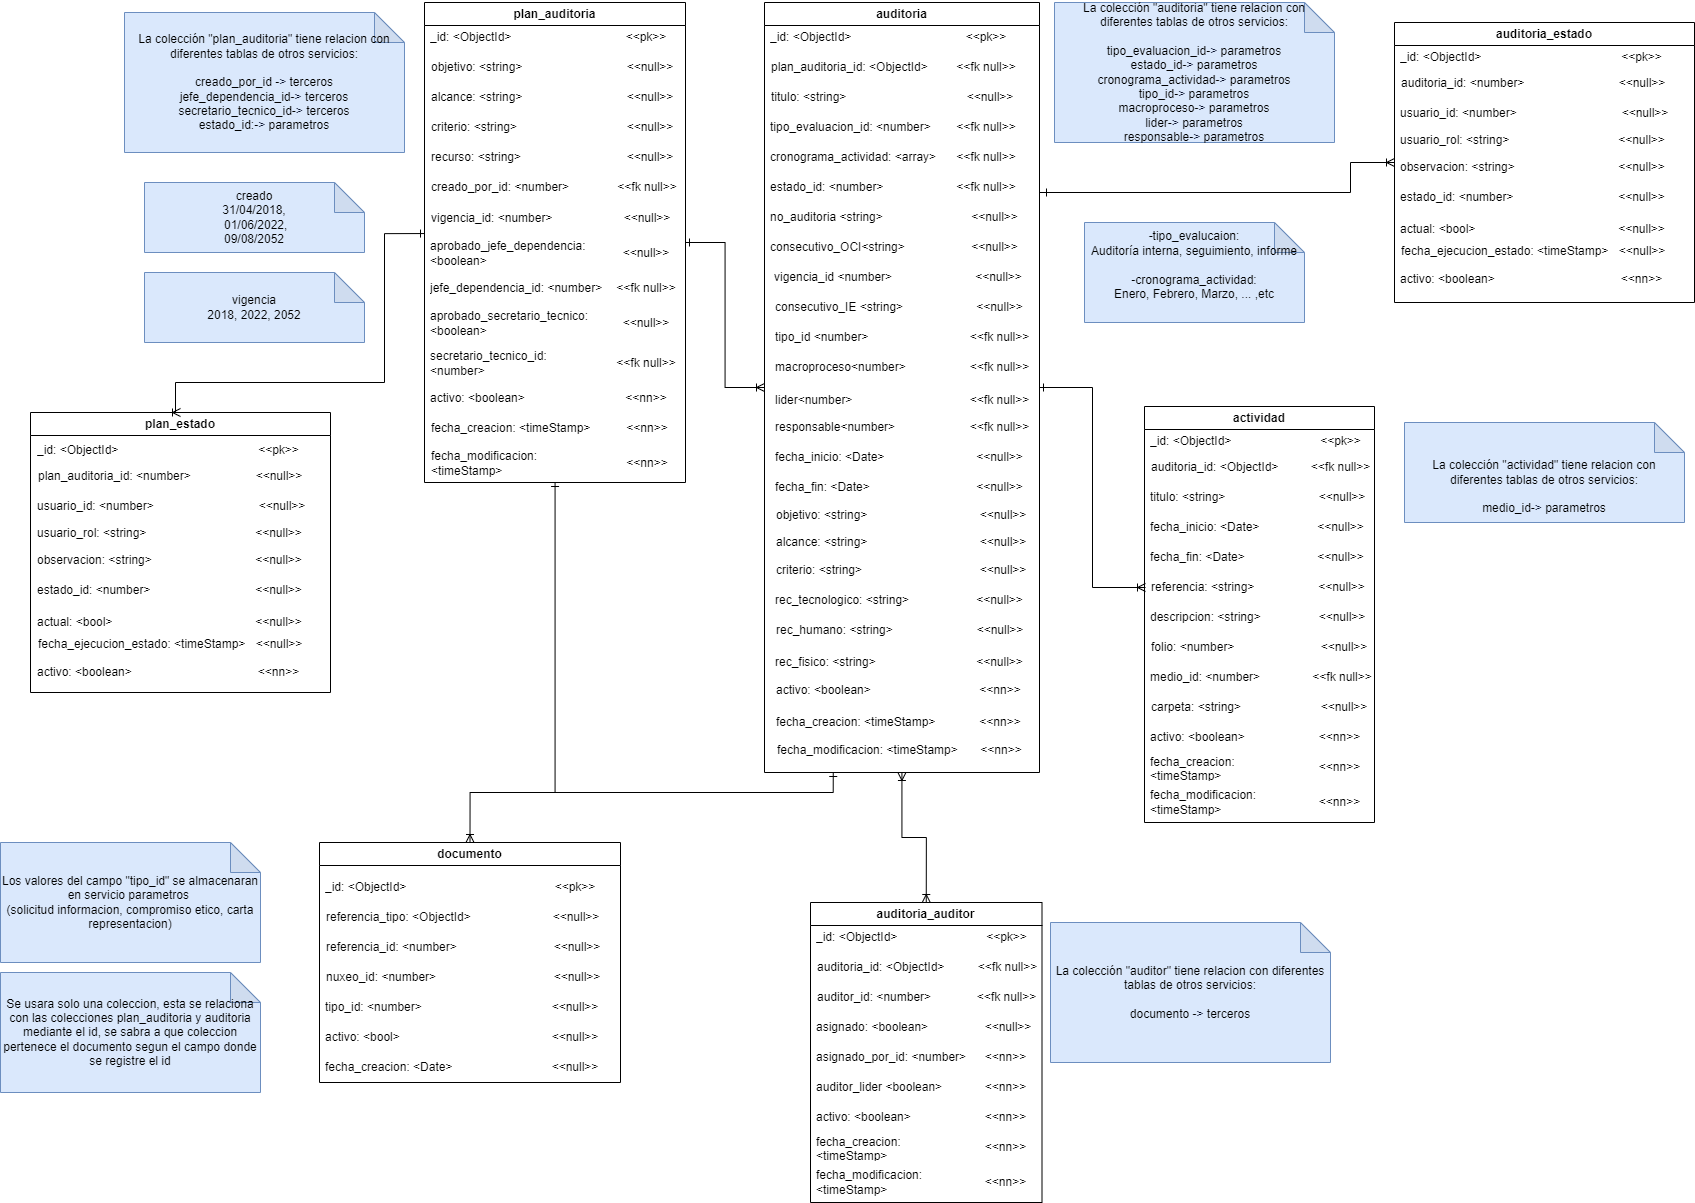
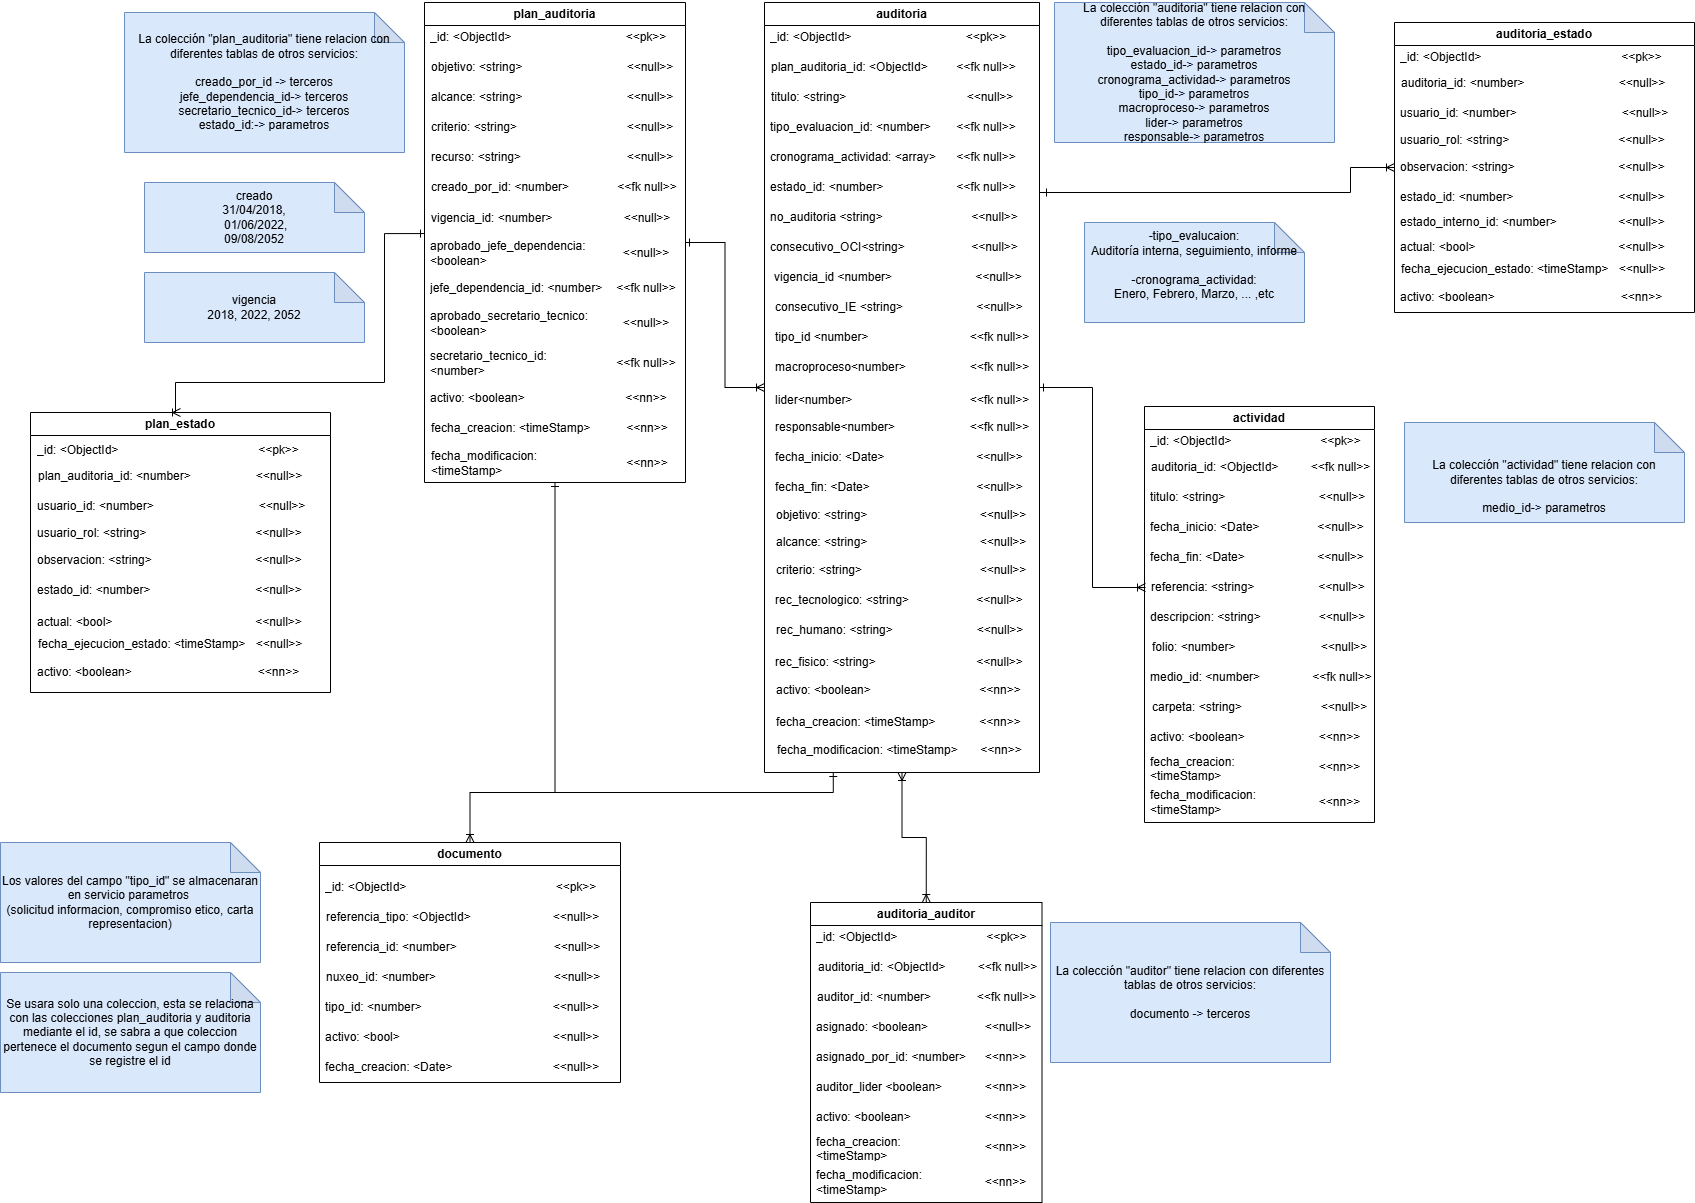
feat: udistrital/sisifo_documentacion#383 diagrama actualizado

diff --git a/src/auditoria/auditoria.controller.ts b/src/auditoria/auditoria.controller.ts
@@ -11,8 +11,8 @@ import {
   Res,
 } from '@nestjs/common';
 import { AuditoriaService } from './auditoria.service';
-import { AuditoriaDTO } from './dto/auditoria.dto'
-import { FilterDto } from '../filters/filters.dto'
+import { AuditoriaDTO } from './dto/auditoria.dto';
+import { FilterDto } from '../filters/filters.dto';
 import {
   ApiTags,
   ApiOperation,
@@ -24,7 +24,7 @@ import {
 @ApiTags('auditoria')
 @Controller('auditoria')
 export class AuditoriaController {
-  constructor(private AuditoriaService: AuditoriaService) { }
+  constructor(private AuditoriaService: AuditoriaService) {}
 
   @Post()
   @ApiOperation({ summary: 'Crear un nueva aditoria' })
@@ -73,7 +73,6 @@ export class AuditoriaController {
         Message: 'Peticion Exitosa',
         Data: auditorias,
         MetaData: { Count: counts },
-
       });
     } catch (error) {
       res.status(HttpStatus.NOT_FOUND).json({
@@ -173,7 +172,8 @@ export class AuditoriaController {
       res.status(HttpStatus.NOT_FOUND).json({
         Success: false,
         Status: HttpStatus.NOT_FOUND,
-        Message: 'Error en el servicio Delete: la peticion contiene parametros incorrectos',
+        Message:
+          'Error en el servicio Delete: la peticion contiene parametros incorrectos',
         Data: error.message,
       });
     }

diff --git a/src/auditoria-estado/schema/auditoria-estado.schema.ts b/src/auditoria-estado/schema/auditoria-estado.schema.ts
@@ -6,7 +6,7 @@ import { Auditoria } from '../../auditoria/schemas/auditoria.schema';
 @Schema({ collection: 'auditoria_estado' })
 export class AuditoriaEstado extends Document {
   @Prop({ required: false, type: Types.ObjectId, ref: Auditoria.name })
-  auditoria_id: AuditoriaDTO | Types.ObjectId;
+  auditoria_id: Auditoria | Types.ObjectId;
 
   @Prop({ required: false })
   usuario_id: number;
